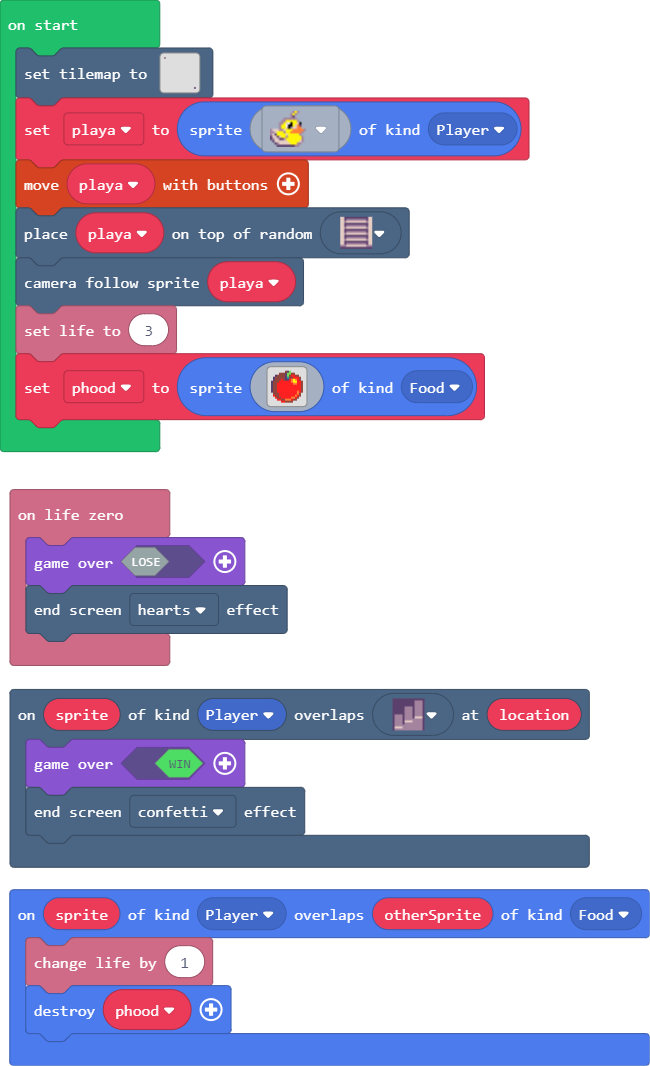
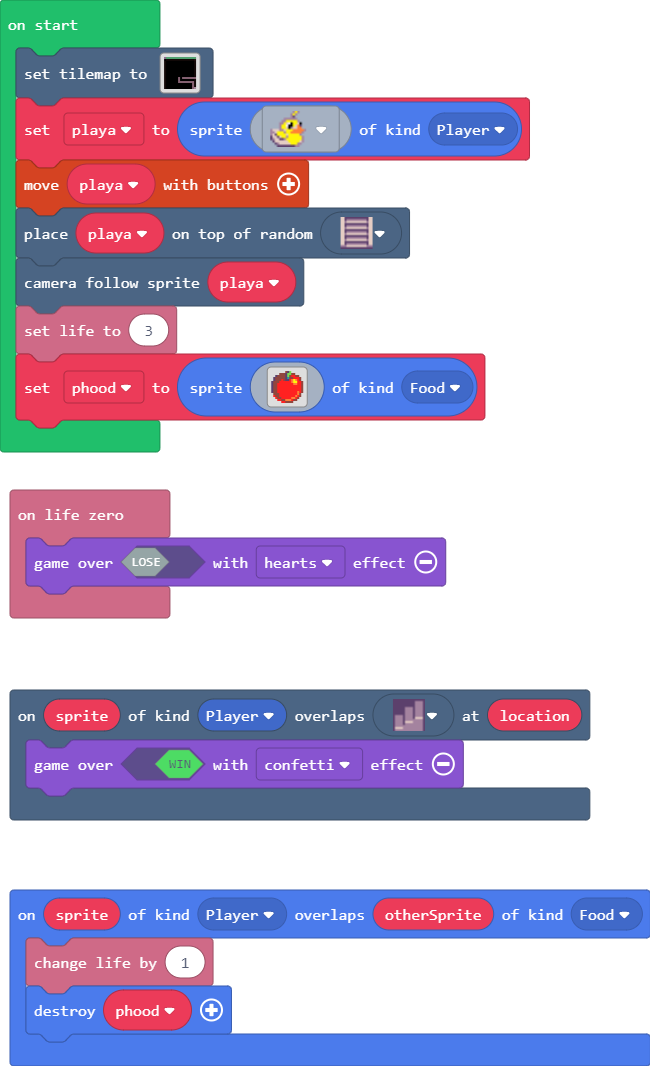
aaaa

diff --git a/main.ts b/main.ts
@@ -24,35 +24,33 @@ sprites.onOverlap(SpriteKind.Player, SpriteKind.Food, function (sprite, otherSpr
     phood.destroy()
 })
 scene.onOverlapTile(SpriteKind.Player, sprites.dungeon.stairLarge, function (sprite, location) {
-    game.over(true)
-    effects.confetti.endScreenEffect()
+    game.over(true, effects.confetti)
 })
 info.onLifeZero(function () {
-    game.over(false)
-    effects.hearts.endScreenEffect()
+    game.over(false, effects.hearts)
 })
 let phood: Sprite = null
 tiles.setTilemap(tiles.createTilemap(
-            hex`1000100002000000000000000000000000000000000000000000000000000000000000000000000000000000000000000000000000000000000000000000000000000000000000000000000000000000000000000000000000000000000000000000000000000000000000000000000000000000000000000000000000000000000000000000000000000000000000000000000000000000000000000000000000000000000000000000000000000000000000000000000000000000000000000000000000000000000000000000000000000000000000000000000000000000000000000000000000000000000000000000000000000000000000000000000000000001`,
[1 lines of base64/hex data omitted]
             img`
-. . . . . . . . . . . . . . . . 
-. . . . . . . . . . . . . . . . 
-. . . . . . . . . . . . . . . . 
-. . . . . . . . . . . . . . . . 
-. . . . . . . . . . . . . . . . 
-. . . . . . . . . . . . . . . . 
-. . . . . . . . . . . . . . . . 
-. . . . . . . . . . . . . . . . 
-. . . . . . . . . . . . . . . . 
-. . . . . . . . . . . . . . . . 
-. . . . . . . . . . . . . . . . 
-. . . . . . . . . . . . . . . . 
-. . . . . . . . . . . . . . . . 
-. . . . . . . . . . . . . . . . 
-. . . . . . . . . . . . . . . . 
-. . . . . . . . . . . . . . . . 
+. 2 2 2 2 2 2 2 2 2 2 2 2 2 2 2 
+. . . . . . . . . . . . . . . 2 
+2 . . . . . . . . . . . . . . 2 
+2 . . . . . . . . . . . . . . 2 
+2 . . . . . . . . . . . . . . 2 
+2 . . . . . . . . . . . . . . 2 
+2 . . . . . . . . . . . . . . 2 
+2 . . . . . . . . . . . . . . 2 
+2 . . . . . . . . . . . . . . 2 
+2 . . . . . . . . . . . . . . 2 
+2 . . . . . . . . . . . . . . . 
+2 . . . . . . . . . . . . . . . 
+2 . . . . . . . . . . . . . 2 . 
+2 . . . . . . . . . . . . . 2 . 
+2 . . . . . . . . . . . . . 2 . 
+2 . . . . . . . . . . . . . 2 . 
 `,
-            [myTiles.tile0,sprites.dungeon.stairLarge,sprites.dungeon.stairNorth],
+            [myTiles.tile0,sprites.dungeon.stairLarge,sprites.dungeon.stairNorth,sprites.builtin.forestTiles6,sprites.builtin.forestTiles9,sprites.builtin.forestTiles10,sprites.builtin.forestTiles7,sprites.builtin.forestTiles11,sprites.builtin.forestTiles8,sprites.builtin.forestTiles12,sprites.builtin.forestTiles1,sprites.builtin.forestTiles29,sprites.builtin.forestTiles27,sprites.builtin.forestTiles24,sprites.builtin.forestTiles20,sprites.builtin.forestTiles18,sprites.builtin.forestTiles19,sprites.builtin.forestTiles17],
             TileScale.Sixteen
         ))
 let playa = sprites.create(sprites.duck.duck3, SpriteKind.Player)
